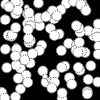
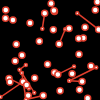
docs(examples): Add many

diff --git a/browser/src/lib/markdown-content.ts b/browser/src/lib/markdown-content.ts
@@ -9,6 +9,19 @@ const markdown = new MarkdownIt({
 	html: true,
 	linkify: true,
 });
+const defaultLinkOpen = markdown.renderer.rules.link_open;
+
+markdown.renderer.rules.link_open = (tokens, idx, options, env, self) => {
+	const token = tokens[idx];
+
+	if (!token) return self.renderToken(tokens, idx, options);
+	token.attrSet("target", "_blank");
+	token.attrJoin("rel", "noopener noreferrer"); // Secure new-tab links.
+
+	return defaultLinkOpen
+		? defaultLinkOpen(tokens, idx, options, env, self)
+		: self.renderToken(tokens, idx, options);
+};
 
 function metadataList(
 	metadata: Record<string, unknown>,

diff --git a/browser/src/styles.css b/browser/src/styles.css
@@ -113,6 +113,7 @@ canvas {
 	max-width: 100%;
 	position: relative;
 	width: 18rem;
+	perspective: 800px;
 }
 
 .content-card-content {
@@ -131,7 +132,9 @@ canvas {
 	position: absolute;
 	right: 0;
 	top: 0;
+	transform: translateZ(0);
 	transition:
+		transform 160ms ease-out,
 		box-shadow 160ms ease-out,
 		max-height 200ms ease-in-out;
 }
@@ -143,6 +146,7 @@ canvas {
 .content-card:is(:hover, :focus-within) .content-card-content {
 	box-shadow: 3px 3px 0 var(--color-text);
 	max-height: 100vh;
+	transform: translateZ(50px);
 }
 
 @media (prefers-reduced-motion: reduce) {

diff --git a/content/examples/grid-closure/description.md b/content/examples/grid-closure/description.md
@@ -1,7 +1,7 @@
 ---
 title: Law of Clousure and Multistable Perception in a grid
 order: 220
-enabled: false
+enabled: true
 categories: [grid, chance]
 tags: [proximity, multistable-perception, nonlinear-spacing]
 ---

diff --git a/content/examples/pareto-distribution/description.md b/content/examples/pareto-distribution/description.md
@@ -1,0 +1,9 @@
+---
+title: Pareto distribution
+order: 500
+enabled: true
+categories: [chance]
+tags: [pareto, distribution, math]
+---
+
+Uses the Pareto distribution to generate a left dense dot plot.

diff --git a/content/examples/grid-contrast/description.md b/content/examples/grid-contrast/description.md
@@ -1,8 +1,8 @@
 ---
 title: Law of Symetry and Figured-Ground
 order: 230
-enabled: false
-categories: [grid, form]
+enabled: true
+categories: [form]
 tags: [contrast, symmetry, figure-ground]
 ---
 

diff --git a/content/examples/hairy-story/description.md b/content/examples/hairy-story/description.md
@@ -1,7 +1,7 @@
 ---
 title: Hairy Story
 order: 420
-enabled: false
+enabled: true
 categories: [chance, form]
 tags: [ellipses, causality, connected elements, irregular grid]
 ---

diff --git a/content/examples/hidden-room/description.md b/content/examples/hidden-room/description.md
@@ -1,7 +1,7 @@
 ---
 title: Hidden Room
 order: 250
-enabled: false
+enabled: true
 categories: [grid, repeat, form]
 tags: [negative-space, figure-ground, horizontal-lines]
 ---

diff --git a/content/examples/circle-bubbles/description.md b/content/examples/circle-bubbles/description.md
@@ -1,7 +1,7 @@
 ---
 title: Circle bubbles
 order: 400
-enabled: false
+enabled: true
 categories: [chance, form]
 tags: [circles, similarity, connected elements, contrast]
 ---

diff --git a/content/examples/triangle-and-quad/description.md b/content/examples/triangle-and-quad/description.md
@@ -1,7 +1,7 @@
 ---
 title: Triangle and Quad
 order: 191
-enabled: false
+enabled: true
 categories: [form, chance]
 tags: [triangles, closure, ambiguity, quadrilaterals]
 ---

diff --git a/content/examples/grid-symmetry/description.md b/content/examples/grid-symmetry/description.md
@@ -1,7 +1,7 @@
 ---
 title: Law of Symetry and chance
 order: 240
-enabled: false
+enabled: true
 categories: [grid, repeat]
 tags: [symmetry, converging-lines, depth]
 ---

diff --git a/content/examples/kanizsa-triangle/description.md b/content/examples/kanizsa-triangle/description.md
@@ -1,7 +1,7 @@
 ---
 title: Kanizsa's Triangle
 order: 192
-enabled: false
+enabled: true
 categories: [form]
 tags: [closure, illusion, triangles, figure-ground]
 ---

diff --git a/content/examples/random-circles/description.md b/content/examples/random-circles/description.md
@@ -1,7 +1,7 @@
 ---
 title: Random Circles
 order: 440
-enabled: false
+enabled: true
 categories: [chance, repeat]
 tags: [randomness, circles, grid, similarity]
 ---
